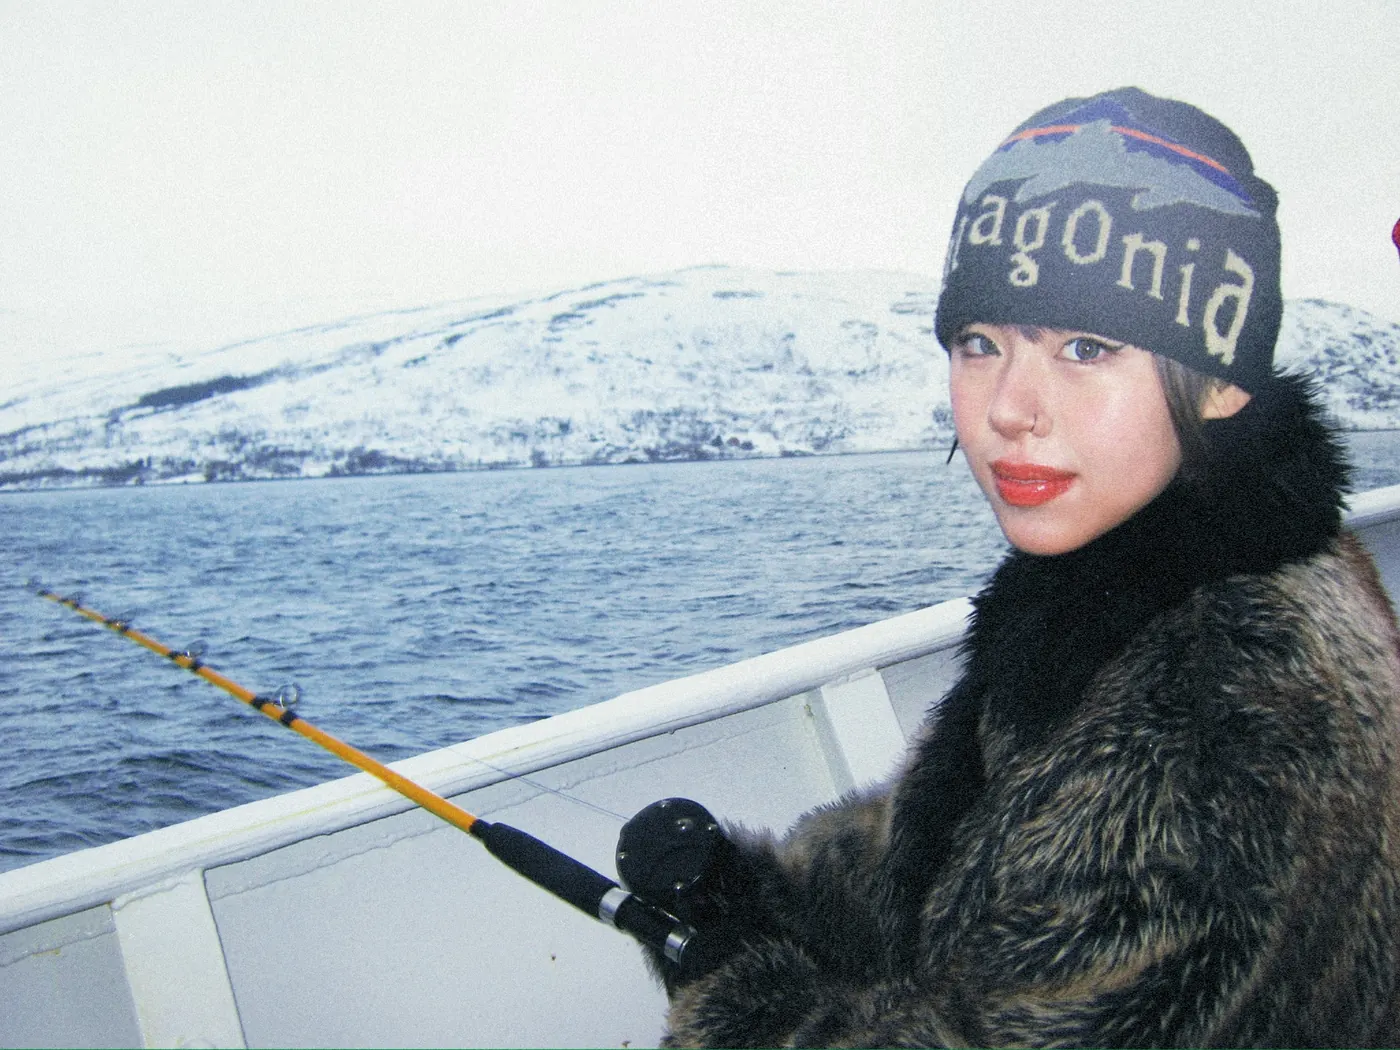
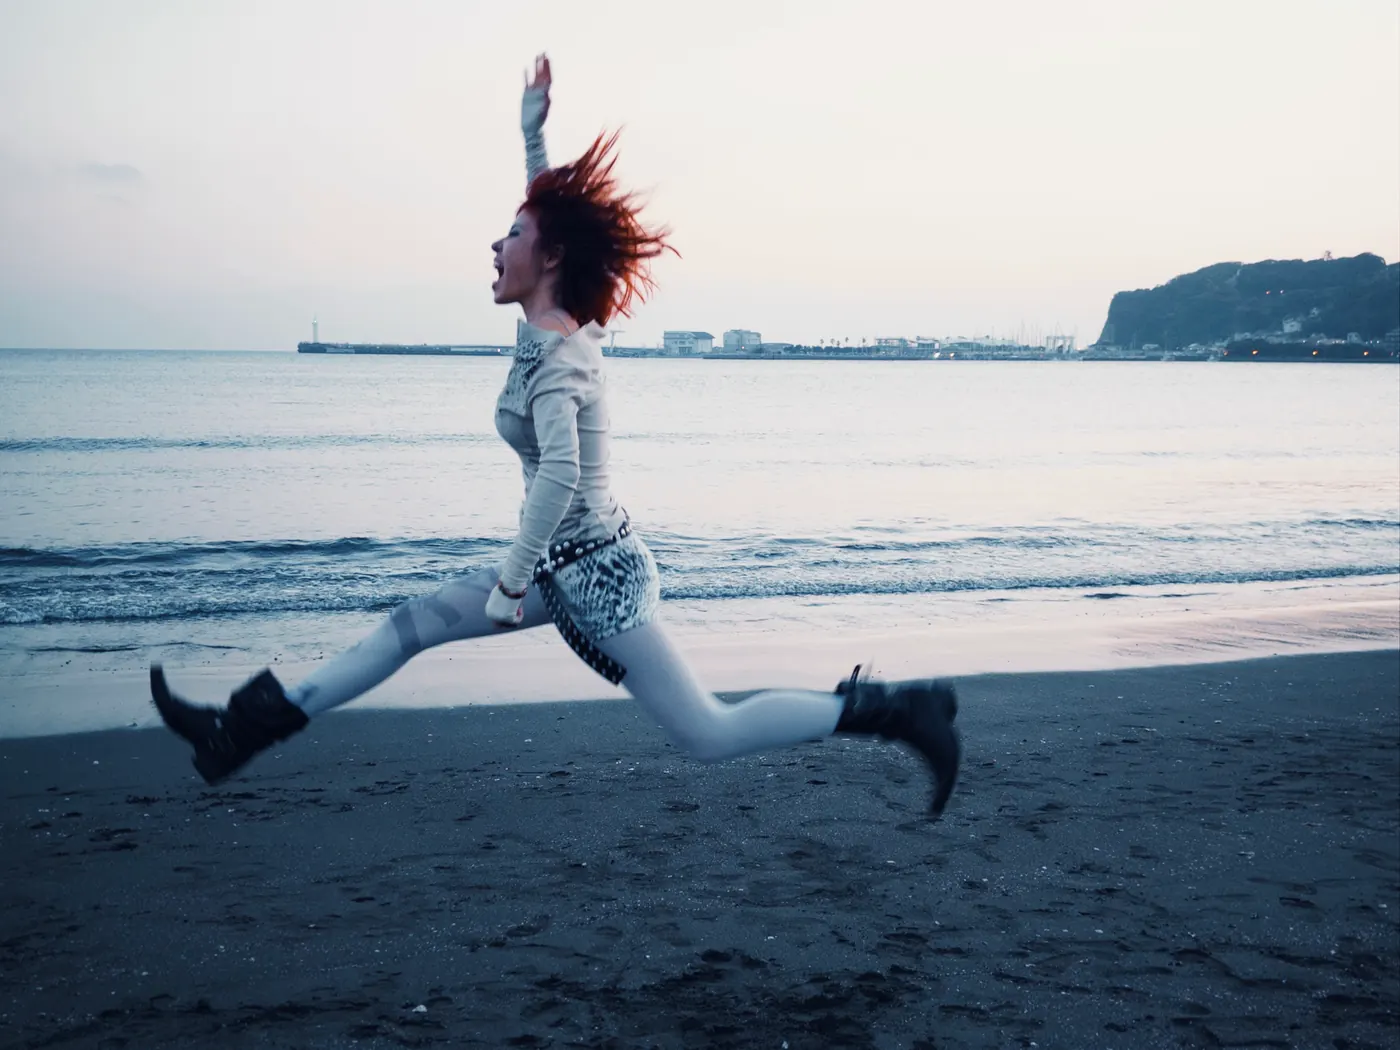
content: 删掉多人合影照片（剩 4 张，重新编号 01-04），取景覆盖表清空

diff --git a/src/components/PhotoCarousel.tsx b/src/components/PhotoCarousel.tsx
@@ -20,13 +20,10 @@ const modules = import.meta.glob('../assets/photos/*.{webp,WEBP,jpg,JPG,jpeg,JPE
 
 /** 单独调取景的照片：键是文件名前面的序号（如 03），值是 object-position。
  *  不写就用 CSS 里 .photo-slide 的默认值（center 35%）。
- *  2026-10-13 按本人要求：
- *    涂鸦墙那张、红发没在笑的大头照（带圆形耳环）两张已删 → 只剩 5 张；
- *    多人合照（现在是 03）往上 15%。
- *  ⚠ 序号 = 显示顺序，换过图（删了两张、重编过号）→ 改这张表前先看图确认序号。 */
-const PHOTO_POS: Record<string, string> = {
-  '03': 'center 15%',
-}
+ *  2026-10-13 按本人要求先后删掉了三张（涂鸦墙、红发没在笑的大头照、多人合照）→
+ *  现在只剩 4 张，都不需要单独调取景，所以这里先留空表，机制留着备用。
+ *  ⚠ 序号 = 显示顺序，换图 / 删图后会重编，改这张表前先看图确认序号。 */
+const PHOTO_POS: Record<string, string> = {}
 
 const photos = Object.keys(modules)
   .sort((a, b) => a.localeCompare(b, 'zh-Hans-CN', { numeric: true }))
